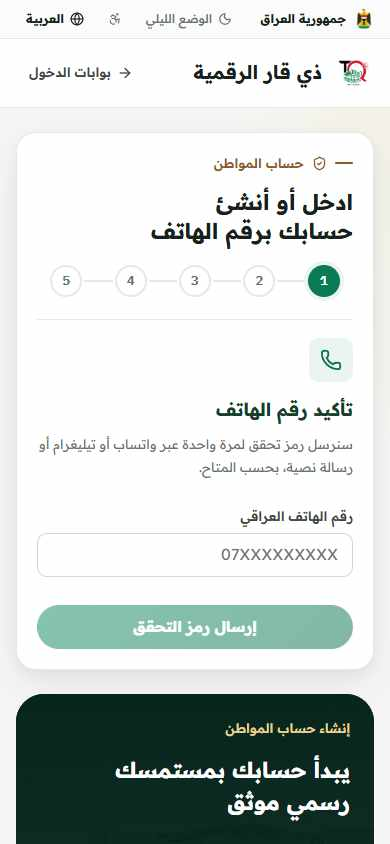
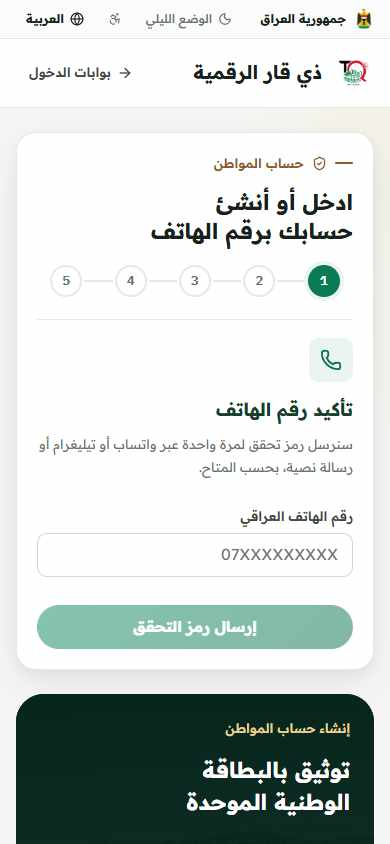
QA report section 13: unified-card AI verification and other additions

Changed region(s): [[0.2769, 0.8934, 0.8923, 0.9858]]

diff --git a/docs/audit/PLATFORM_QA_2026-10-09.md b/docs/audit/PLATFORM_QA_2026-10-09.md
@@ -272,3 +272,16 @@
 | مهلة الإنجاز | `service_catalog.sla_working_days` (الافتراضي 5 أيام عمل للتقديم الإلكتروني و7 لما يتطلب موعداً) يعدّلها مدير النظام من «الطلبات والخدمات والمتطلبات». `due_at` يُحسب عند التقديم بأيام عمل تتخطى الجمعة والسبت بتوقيت بغداد؛ وقت انتظار المواطن (نواقص أو رسم) يُضاف للمهلة عند عودة الطلب (`waiting_since`). الطلبات المفتوحة القديمة تُعطى مهلة عند الإقلاع. قائمة الموظف: كهرماني خلال آخر 24 ساعة، أحمر بعد التجاوز، بدل «3 أيام» الثابتة. |
 
 **التحقق:** `tests/department-workflow.test.ts` (9 اختبارات: سباق الاستلام، القرار لصاحب الطلب فقط، التحرير/الإسناد من المدير، الإحالة ونقل الصلاحية والإشعار، منعها مع رسم مفتوح، علم المدير في الجلسة، تخطي عطلة نهاية الأسبوع، علامة التأخير وإيقاف المهلة، تعديل المهلة). `pnpm check` = 91 اختباراً ناجحاً. `api-e2e` على خادم محلي جديد = 67/68 (DEP-10 «الإحالة» ناجح الآن؛ الباقي: بوابة الدفع الحقيقية)، وصُحح فحص الأسرار SEC-16 ليعمل حين يشغّل node الأمر عبر cmd.exe.
+
+## 13. توثيق الهوية بالبطاقة الموحدة والقبول التلقائي، وإضافات أخرى (9–10 تشرين الأول 2026)
+
+**التوثيق:** البطاقة الوطنية الموحدة فقط، بوجهيها، وفيديو الوجه — كلها بتصوير مباشر من كاميرا الهاتف (لا رفع من الجهاز حتى عند تعذر الكاميرا).
+- **قراءة البيانات:** من المنطقة المقروءة آلياً في ظهر البطاقة (ICAO 9303 TD1) بمحرك OCR لاتيني مقيّد بأبجدية المنطقة، مع التحقق من أرقام التحقق الأربعة (`server/mrz.ts`).
+- **فحص الحياة:** مدى التفات الرأس من نقاط الوجه عبر 7 إطارات، ووجه واحد فقط، وعدم ثبات الفيديو.
+- **القبول التلقائي** (`decideAutomatically`): تطابق الوجه ≥ 0.45 + فحص حياة ناجح + منطقة مقروءة سليمة وعراقية وسارية + تطابق الاسم + البطاقة غير مسجلة على حساب آخر ← توثيق فوري وتسجيل الميلاد والجنس والانتهاء والاسم اللاتيني؛ الرقم الكامل لا يُخزن (آخر 4 أرقام + بصمة مشفّرة لكشف التكرار). أي شرط ناقص ← مراجع بشري مع الأسباب، والمواطن يراها. قرار المراجع إن سبق يبقى نافذاً.
+- **الاختبارات:** `tests/mrz.test.ts` (عينة ICAO الرسمية وضوضاء OCR)، `tests/identity-auto.test.ts`.
+- **لم يُختبر:** قراءة صورة بطاقة حقيقية بالـOCR (ملف `eng.traineddata` غير متوفر في بيئة التطوير، ويُنزَّل تلقائياً في الإنتاج)، ومطابقة وجه حقيقي إيجابية.
+
+**إضافات:** مسودة الاستمارة تُحفظ على الجهاز أسبوعاً؛ تسجيل استيفاء رسم إجازة المحل في الدائرة؛ تصدير تقرير المعاملات CSV لـExcel (بلا بيانات شخصية، حسب الصلاحية، مع سجل تدقيق)؛ منع طلبي توثيق متزامنين.
+
+**بعد الدمج مع §12:** `pnpm check` = 101 اختبار ناجح؛ `api-e2e` = 67/68 (الباقي: بوابة دفع حقيقية)؛ `ui-pass` = 54 صفحة و199 رابطاً بلا أخطاء.
